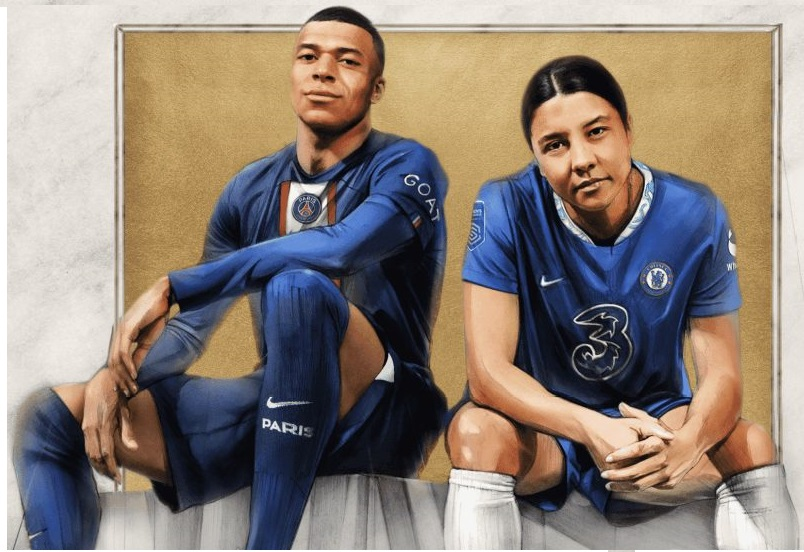
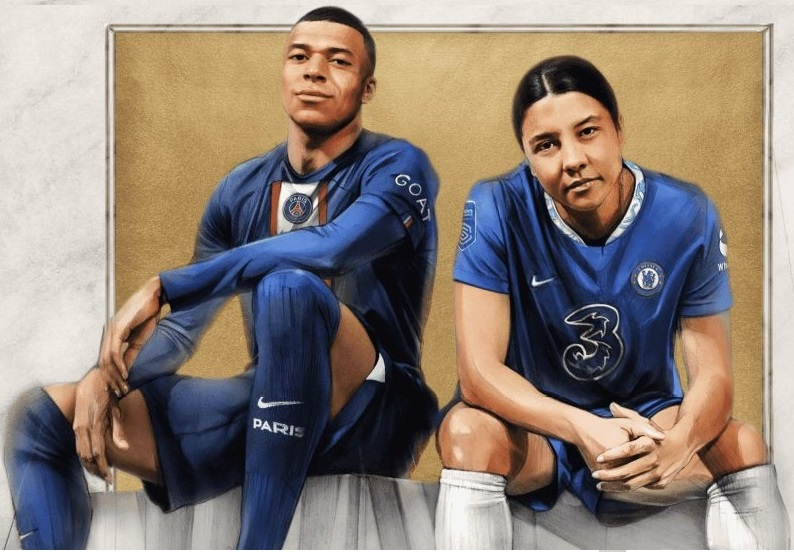
aumentado o haight para 100rem

diff --git a/css/main.min.css b/css/main.min.css
@@ -1,1 +1,1 @@
-.container{width:100%;max-width:143.5rem;margin:0 auto;padding:0 1.5rem}@media(max-width: 1440px){.container{max-width:124.8rempx}}header{width:100%;height:8rem;display:flex;align-items:center;justify-content:space-between;background-color:#000}.header-logo{width:20.9rem;height:5.4rem}.plataforma{display:flex;align-items:center}.plataforma span{font-weight:600;font-size:1.4rem;line-height:1.5rem}.plataforma ul{display:flex;margin-left:1.8rem;gap:.8rem}.plataforma ul li{padding:.4rem .8rem;border:.15rem solid #fff;font-size:1.4rem;line-height:1.5rem}.s-hero{height:90rem;padding-top:16.4rem;padding-bottom:10.3rem;background-image:url(../img/campo\ fifa.png);background-repeat:no-repeat;background-position:center center;background-size:cover}.s-hero .container{display:flex;align-items:flex-end;justify-content:space-between}.s-hero .left{width:100%;max-width:78.2rem}.s-hero .left h1{margin-top:2.4rem;margin-bottom:1.8rem}.s-hero .left p{font-weight:800;font-size:3.2rem;line-height:140%;color:snow;margin-bottom:4rem}.s-hero .left .value{display:flex}.s-hero .left .value strong{background-color:#fff;padding:1.8rem 3.6rem;font-size:2rem;line-height:2.2rem;color:#000}.s-hero .left .value a{display:block;padding:1.8rem 3.6rem;background-color:#3265ea;font-weight:700;font-size:2rem;line-height:2.2rem;color:#fff}.s-hero .right{position:relative;top:9.7rem;width:100%;max-width:44.3rem}.s-hero .right span{display:block;font-weight:700;font-size:1.8rem;line-height:2rem;margin-bottom:2.3rem}.s-hero .right button{position:relative;width:100%;height:24.7rem;border:2px solid #3265ea;overflow:hidden;box-shadow:0px 4px 4px #000;margin-bottom:5.1rem}.s-hero .right button .thumbnail{width:100%;height:100%}.s-hero .right button .play{position:absolute;bottom:2.5rem;left:3.2rem}.s-hero .right .year-old{display:flex;align-items:center}.s-hero .right .year-old p{color:#fff;font-weight:900;font-size:1.6rem;line-height:1.7rem;max-width:27.4rem;margin-left:1.5rem}.s-hero .right .year-old .idades{max-width:4.6rem;max-height:4.5rem}.s-info-geral{width:100%;height:18rem;display:flex;align-items:center}.s-info-geral ul{display:flex;align-items:flex-start;justify-content:space-between}.s-info-geral li{display:flex;flex-direction:column;align-items:center}.s-info-geral li span{display:block;text-align:center;font-size:1.6rem;line-height:160%;margin-top:1.2rem}.s-story{width:100%;height:89.9rem;padding-top:16rem;padding-bottom:8rem;background-image:url(../img/img\ fundo\ s-story.jpg);background-position:center;background-repeat:no-repeat;background-size:cover}.s-story .left{width:100%;max-width:62.9rem}.s-story .left span{color:#000}.s-story .left h2{margin-top:2.8rem;margin-bottom:2.4rem;max-width:50.2rem;color:#000}.s-story .left p{color:#000;margin-bottom:5.6rem}.s-story .left .corp{display:flex;align-items:center}.s-story .left .corp p{margin-bottom:0;font-size:1.6rem;line-height:168%;max-width:32.4rem;margin-left:4.6rem}.s-story .left .corp img{width:100%;max-width:24rem;height:6rem}*{margin:0;padding:0;box-sizing:border-box;list-style:none;font-family:"Archivo" sans-serif;color:#fff}button{border:0;background-color:rgba(0,0,0,0);cursor:pointer}img{max-width:100%;display:block}html{font-size:62.5%}body{background-color:#000}.container{width:100%;max-width:143.5rem;margin:0 auto;padding:0 1.5rem}@media(max-width: 1440px){.container{max-width:124.8rempx}}.subtitle{display:flex;align-items:center;gap:.65rem}.subtitle span{font-weight:500;font-size:2rem;line-height:2.2rem;margin-left:1.5rem}.subtitle ion-icon{background-color:#4040d6;color:azure;border-radius:50%}h1{font-weight:700;font-size:12.4rem;line-height:97.5%}h2{font-weight:700;font-size:4.8rem;line-height:130%}p{font-weight:400;font-size:2rem;line-height:160%}.card-character{width:100%;max-width:38.4rem}
+.container{width:100%;max-width:143.5rem;margin:0 auto;padding:0 1.5rem}@media(max-width: 1440px){.container{max-width:124.8rempx}}header{width:100%;height:8rem;display:flex;align-items:center;justify-content:space-between;background-color:#000}.header-logo{width:20.9rem;height:5.4rem}.plataforma{display:flex;align-items:center}.plataforma span{font-weight:600;font-size:1.4rem;line-height:1.5rem}.plataforma ul{display:flex;margin-left:1.8rem;gap:.8rem}.plataforma ul li{padding:.4rem .8rem;border:.15rem solid #fff;font-size:1.4rem;line-height:1.5rem}.s-hero{height:90rem;padding-top:16.4rem;padding-bottom:10.3rem;background-image:url(../img/campo\ fifa.png);background-repeat:no-repeat;background-position:center center;background-size:cover}.s-hero .container{display:flex;align-items:flex-end;justify-content:space-between}.s-hero .left{width:100%;max-width:78.2rem}.s-hero .left h1{margin-top:2.4rem;margin-bottom:1.8rem}.s-hero .left p{font-weight:800;font-size:3.2rem;line-height:140%;color:snow;margin-bottom:4rem}.s-hero .left .value{display:flex}.s-hero .left .value strong{background-color:#fff;padding:1.8rem 3.6rem;font-size:2rem;line-height:2.2rem;color:#000}.s-hero .left .value a{display:block;padding:1.8rem 3.6rem;background-color:#3265ea;font-weight:700;font-size:2rem;line-height:2.2rem;color:#fff}.s-hero .right{position:relative;top:9.7rem;width:100%;max-width:44.3rem}.s-hero .right span{display:block;font-weight:700;font-size:1.8rem;line-height:2rem;margin-bottom:2.3rem}.s-hero .right button{position:relative;width:100%;height:24.7rem;border:2px solid #3265ea;overflow:hidden;box-shadow:0px 4px 4px #000;margin-bottom:5.1rem}.s-hero .right button .thumbnail{width:100%;height:100%}.s-hero .right button .play{position:absolute;bottom:2.5rem;left:3.2rem}.s-hero .right .year-old{display:flex;align-items:center}.s-hero .right .year-old p{color:#fff;font-weight:900;font-size:1.6rem;line-height:1.7rem;max-width:27.4rem;margin-left:1.5rem}.s-hero .right .year-old .idades{max-width:4.6rem;max-height:4.5rem}.s-info-geral{width:100%;height:18rem;display:flex;align-items:center}.s-info-geral ul{display:flex;align-items:flex-start;justify-content:space-between}.s-info-geral li{display:flex;flex-direction:column;align-items:center}.s-info-geral li span{display:block;text-align:center;font-size:1.6rem;line-height:160%;margin-top:1.2rem}.s-story{width:100%;height:100rem;padding-top:16rem;padding-bottom:8rem;background-image:url(../img/img\ fundo\ s-story.jpg);background-position:center;background-repeat:no-repeat;background-size:cover}.s-story .container{display:flex;align-items:center}.s-story .left{width:100%;max-width:62.9rem;margin-top:6.1rem}.s-story .left span{color:#000}.s-story .left h2{margin-top:2.8rem;margin-bottom:2.4rem;max-width:50.2rem;color:#000}.s-story .left p{color:#000;margin-bottom:5.6rem}.s-story .left .corp{display:flex;align-items:center}.s-story .left .corp p{margin-bottom:0;font-size:1.6rem;line-height:168%;max-width:32.4rem;margin-left:4.6rem}.s-story .left .corp img{width:100%;max-width:24rem}*{margin:0;padding:0;box-sizing:border-box;list-style:none;font-family:"Archivo" sans-serif;color:#fff}button{border:0;background-color:rgba(0,0,0,0);cursor:pointer}img{max-width:100%;display:block}html{font-size:62.5%}body{background-color:#000}.container{width:100%;max-width:143.5rem;margin:0 auto;padding:0 1.5rem}@media(max-width: 1440px){.container{max-width:124.8rempx}}.subtitle{display:flex;align-items:center;gap:.65rem}.subtitle span{font-weight:500;font-size:2rem;line-height:2.2rem;margin-left:1.5rem}.subtitle ion-icon{background-color:#4040d6;color:azure;border-radius:50%}h1{font-weight:700;font-size:12.4rem;line-height:97.5%}h2{font-weight:700;font-size:4.8rem;line-height:130%}p{font-weight:400;font-size:2rem;line-height:160%}.card-character{width:100%;max-width:38.4rem}

diff --git a/acss/_home.scss b/acss/_home.scss
@@ -154,7 +154,7 @@
 
 .s-story{
     width: 100%;
-    height: 89.9rem ;
+    height: 100rem ;
     padding-top: 16rem;
     padding-bottom: 8rem;
     background-image: url(../img/img\ fundo\ s-story.jpg);
@@ -162,7 +162,12 @@
     background-repeat: no-repeat;
     background-size: cover;
 
-    
+    .container{
+         display: flex;
+         align-items: center;
+       
+        
+    }
 
 
 
@@ -171,6 +176,8 @@
 
         width: 100%;
         max-width: 62.9rem;
+
+        margin-top: 6.1rem;
         
         span{
             color: #000000;
@@ -201,8 +208,8 @@
         img{
             width: 100%;
             max-width: 24rem;
-            height: 6rem ;
-         
+      
+    
         }
     }
     }

diff --git a/proyecto.html b/proyecto.html
@@ -142,6 +142,9 @@ Disponivel
         
      </div>
 </div> 
+
+<img src="./img/imagem s-story right.jpg"  class="imagem-s-story" alt="">
+
 </section>
 
 </body>
